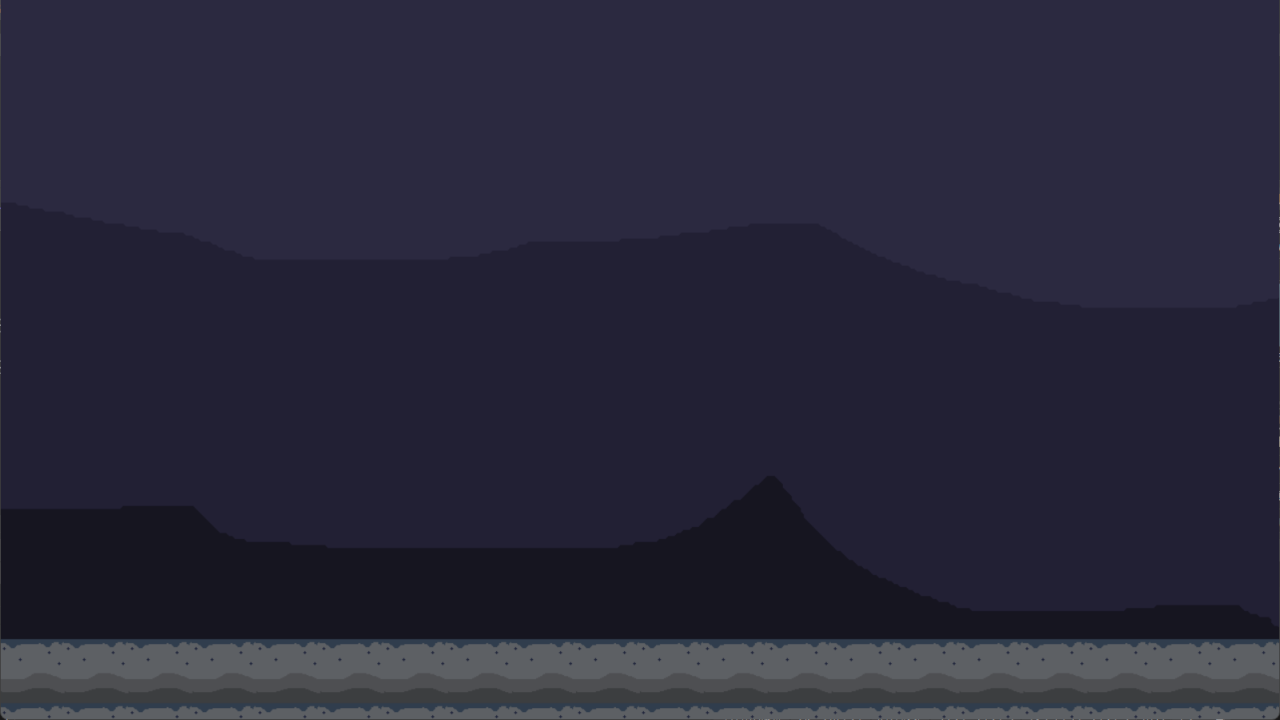
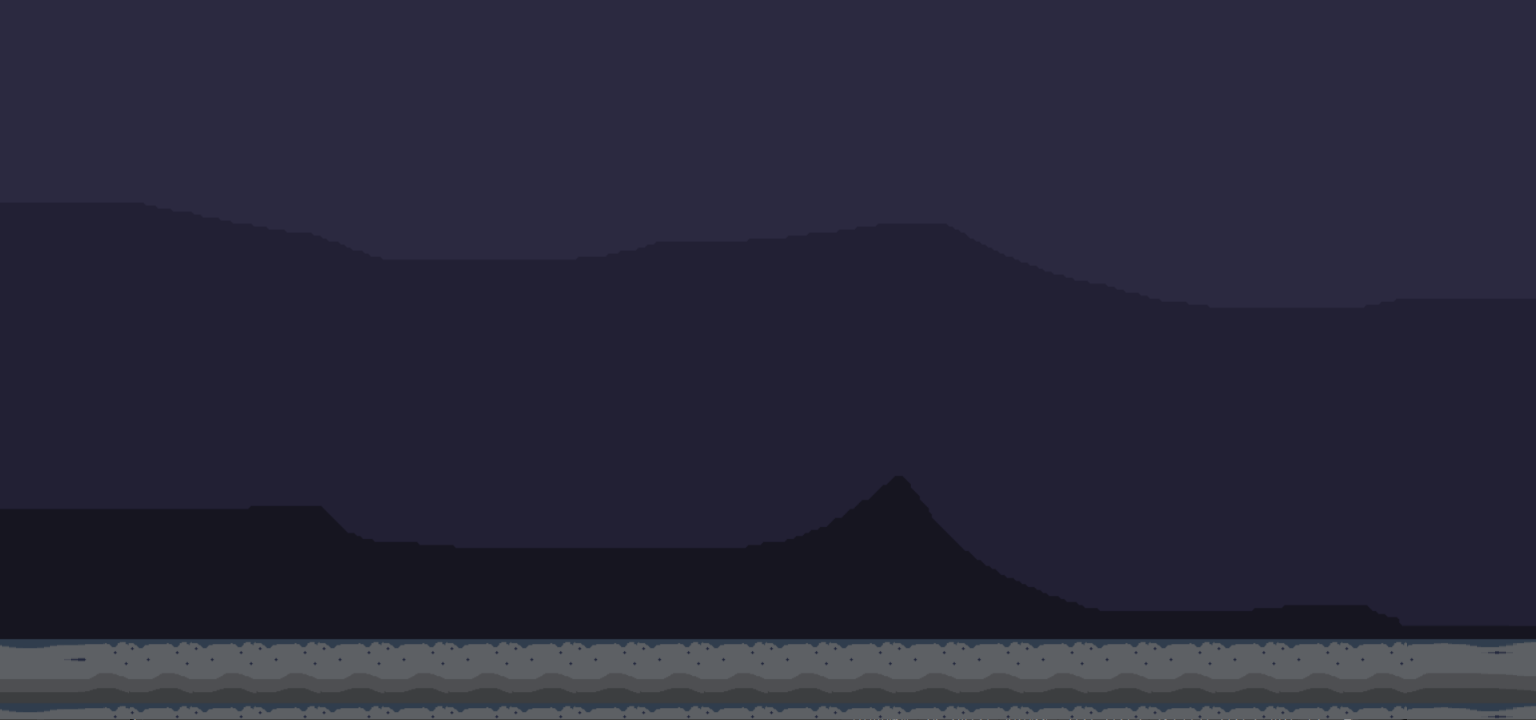
画像修正

diff --git a/TGS2024/AnimScene.cpp b/TGS2024/AnimScene.cpp
@@ -227,7 +227,7 @@ void AnimScene::Update()
 void AnimScene::Draw() const
 {
 
-	DrawGraph((int)screen_origin_position.x, 0, back_img, FALSE);
+	DrawGraph((int)screen_origin_position.x - 64, 0, back_img, FALSE);
 
 	if (fallingrock != nullptr)
 	{
@@ -278,8 +278,8 @@ void AnimScene::ShakeCamera(bool set_true, int set_num)
 {
 	if (set_num == 1)
 	{
-		shake_x1 = 5;
-		shake_x2 = 10;
+		shake_x1 = 10;
+		shake_x2 = 15;
 		if (set_true == true)
 		{
 			//画面の揺れ

diff --git a/TGS2024/Main.cpp b/TGS2024/Main.cpp
@@ -38,7 +38,7 @@ int WINAPI WinMain(HINSTANCE hInstance, HINSTANCE hPrevInstance, LPSTR lpCmdLine
 
 	SetDrawScreen(DX_SCREEN_BACK);	// 描画先画面を裏にする
 	//new GameMainScene(true,1)
-	SceneManager SceneManager(dynamic_cast<AbstractScene*>(new GameMainScene(true, 1)));
+	SceneManager SceneManager(dynamic_cast<AbstractScene*>(new TitleScene));
 	Input input;
 	fps fp;
 	//ループ前にFPS計測を初期化

diff --git a/TGS2024/GameMainScene.cpp b/TGS2024/GameMainScene.cpp
@@ -990,10 +990,10 @@ void GameMainScene::Update()
 	case PLAY:
 
 
-		if (CheckHitKey(KEY_INPUT_SPACE) == 1)
-		{
-			game_state = EDITOR;
-		}
+		//if (CheckHitKey(KEY_INPUT_SPACE) == 1)
+		//{
+		//	game_state = EDITOR;
+		//}
 
 
 		if (retry_flg == true&&retry_fadein_once==true)
